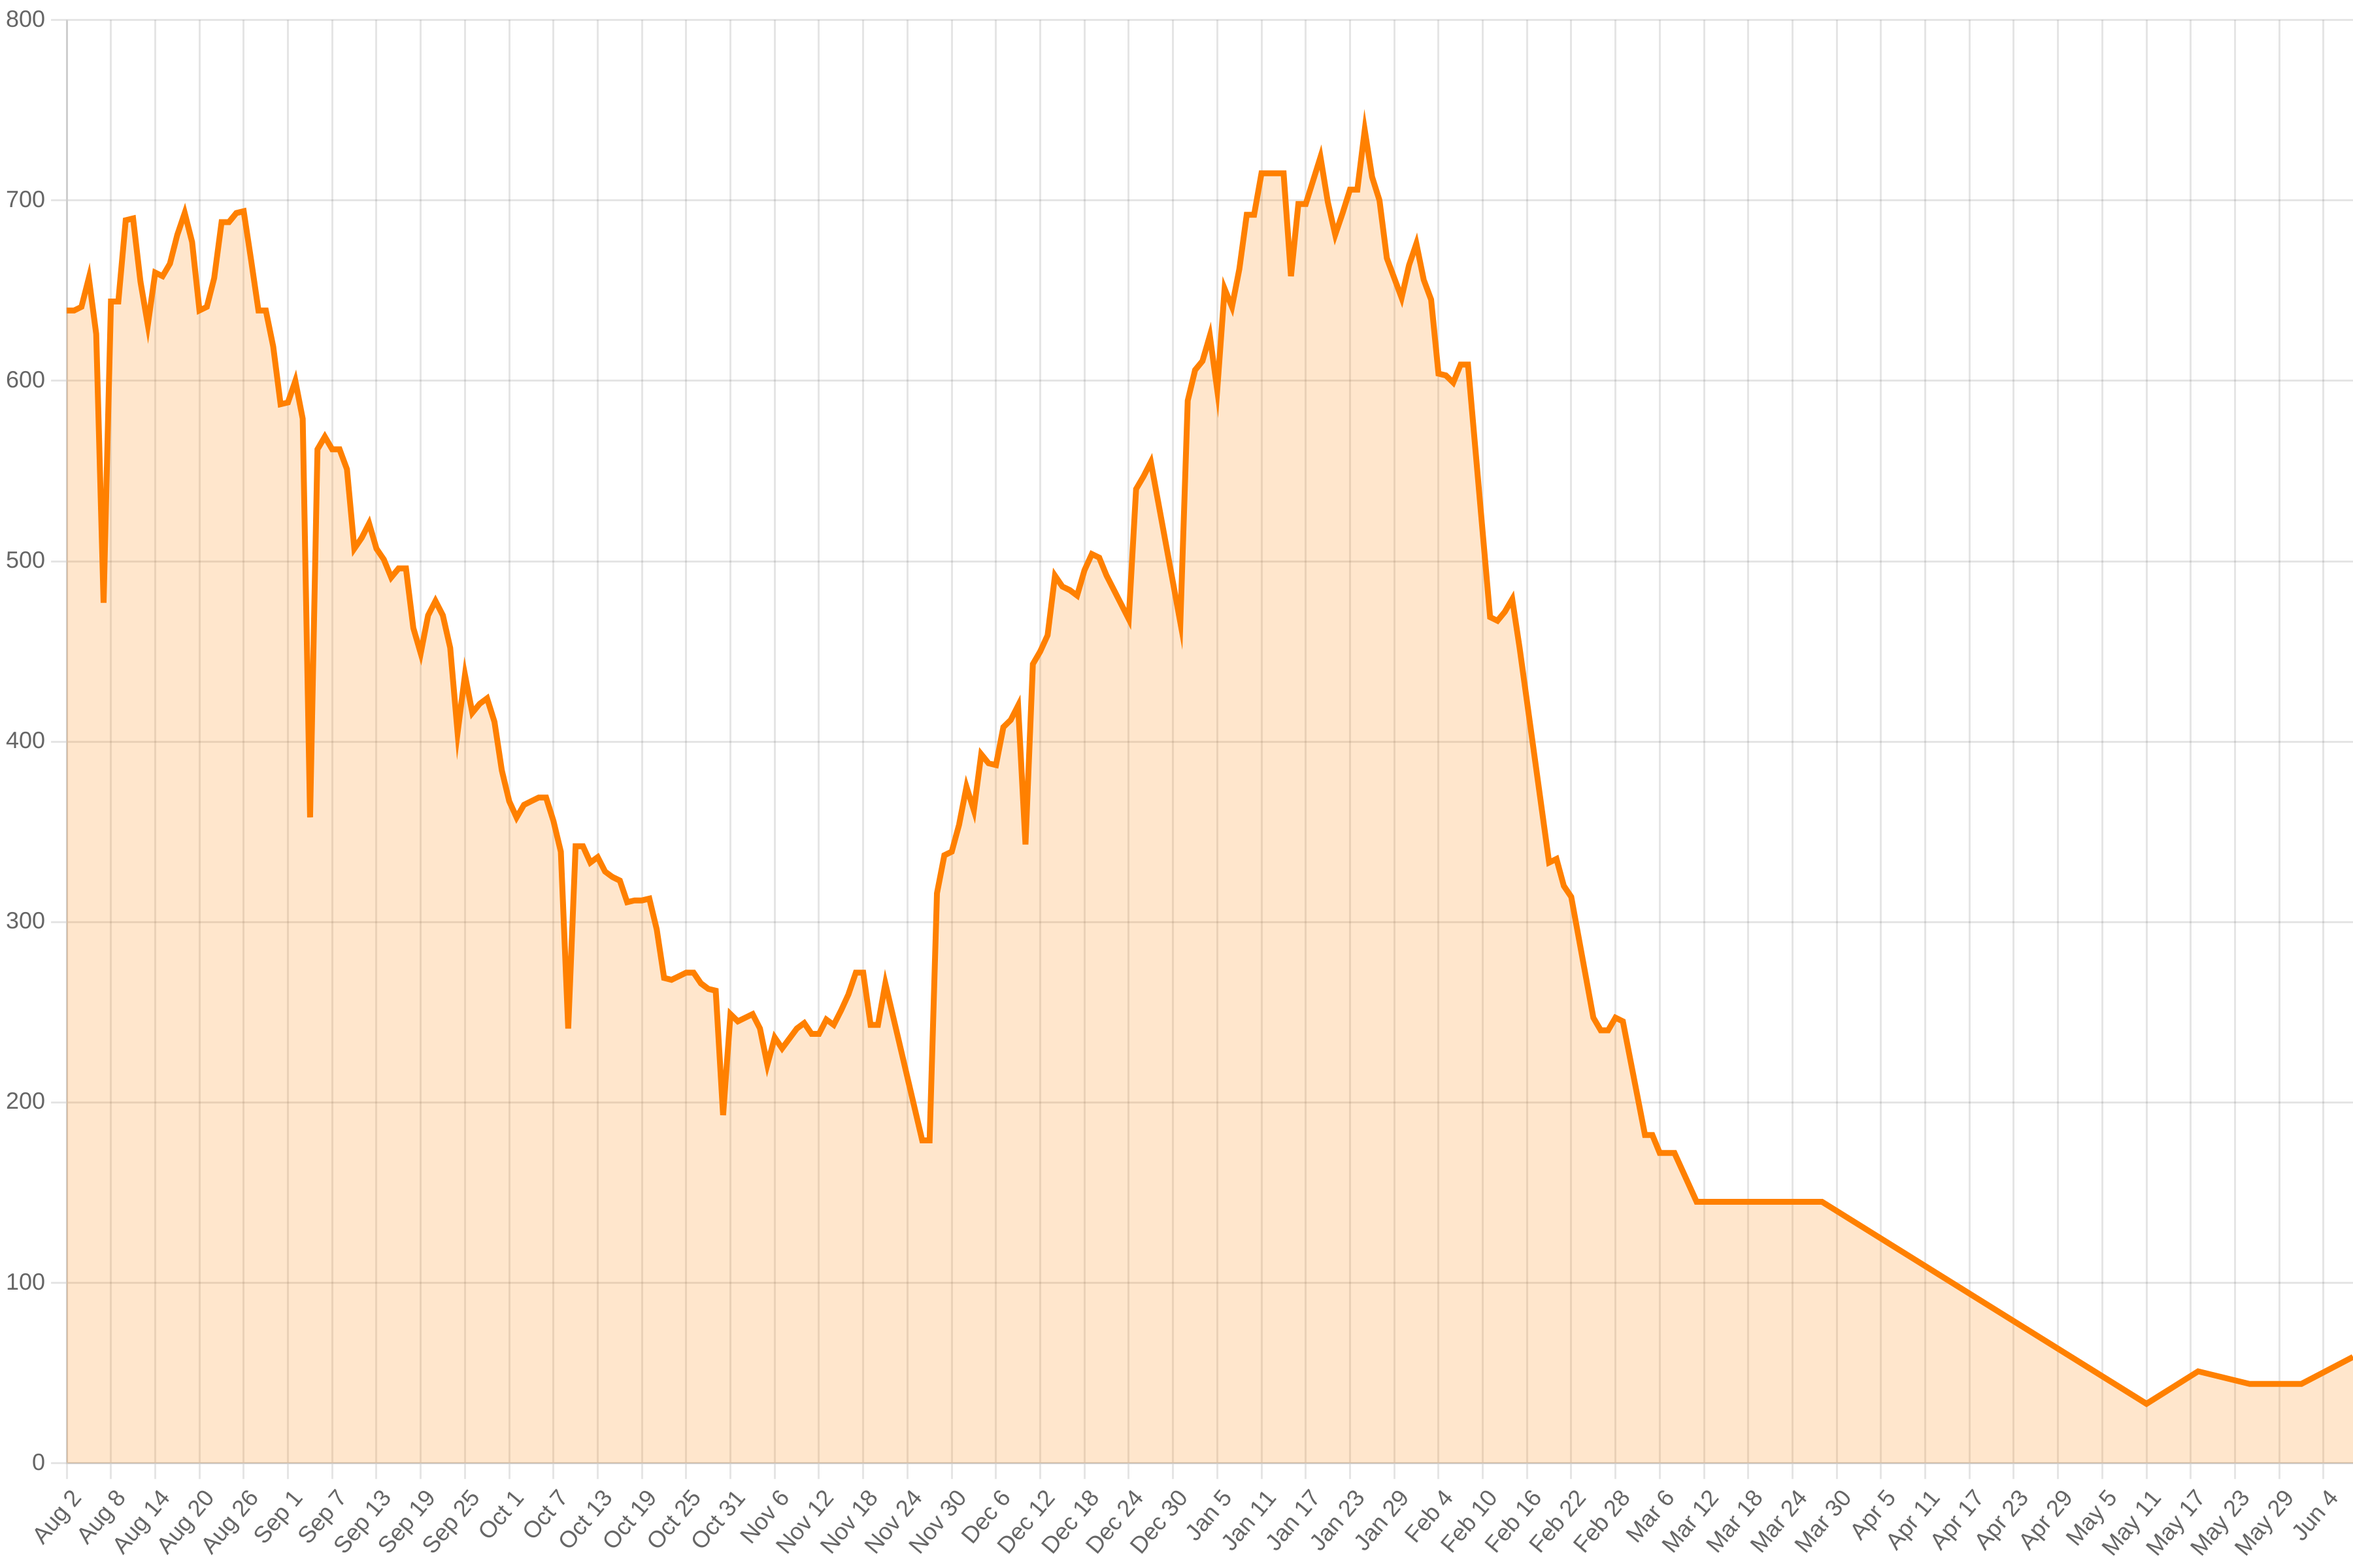
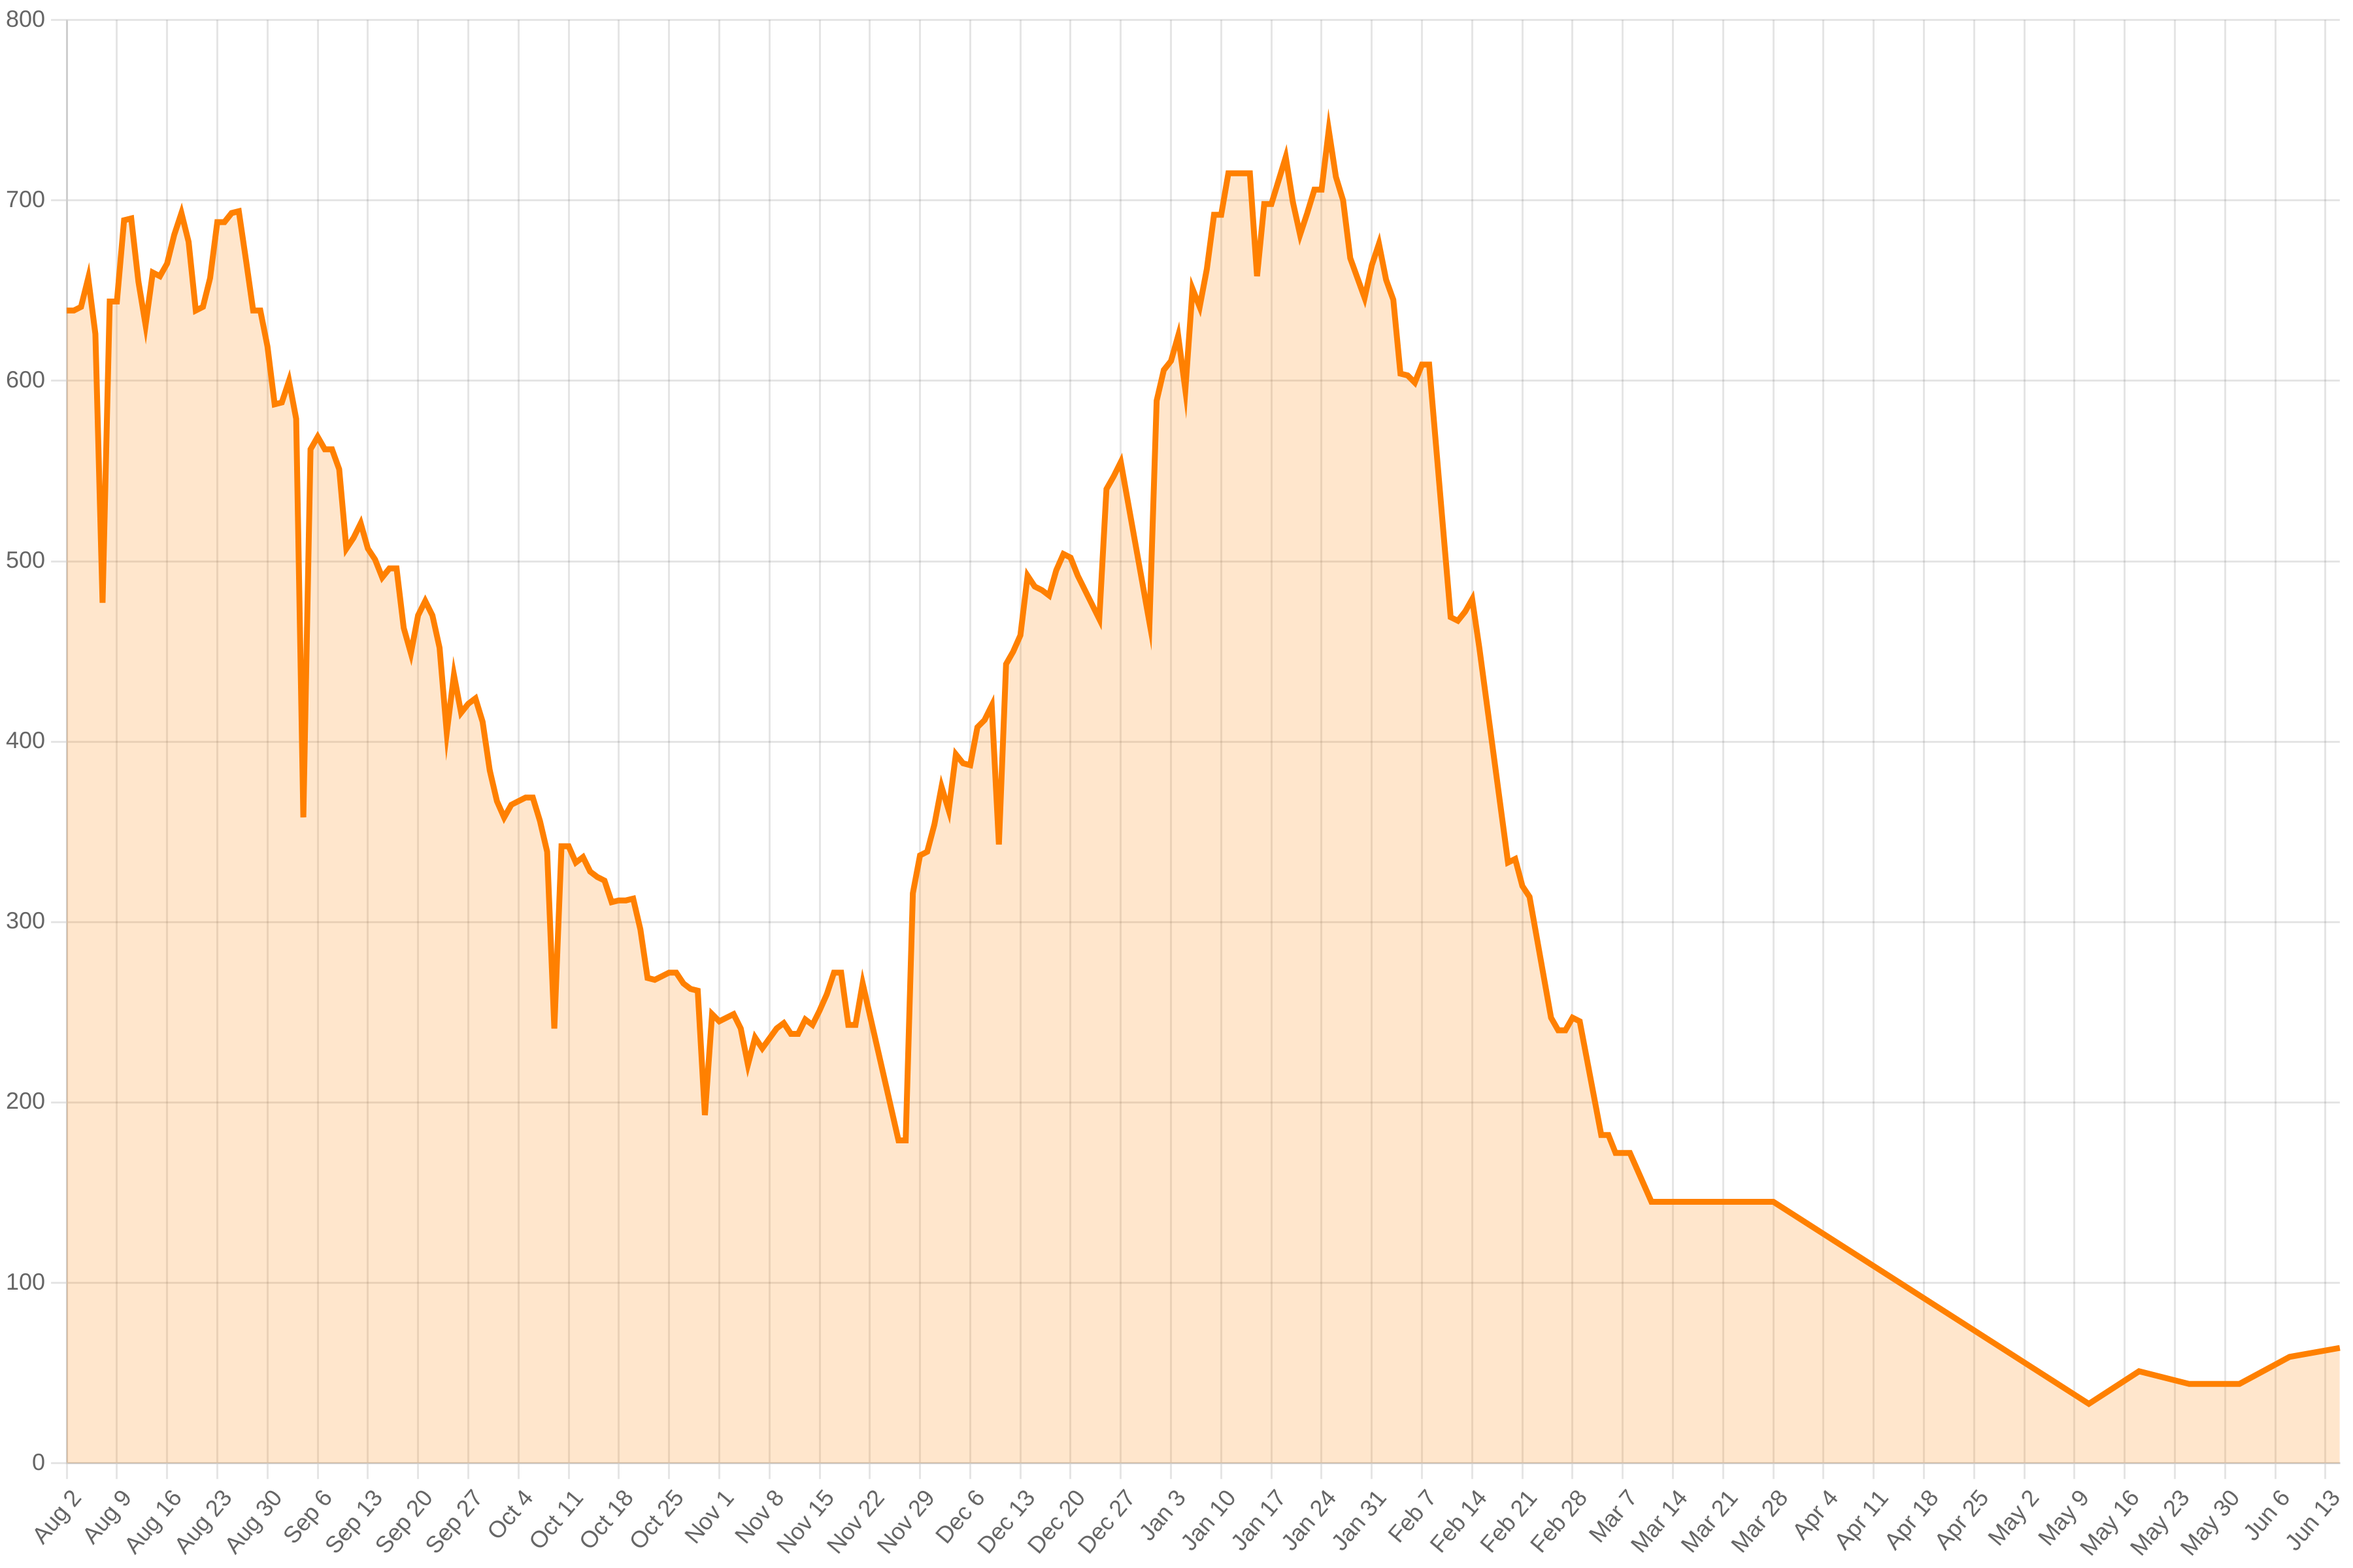
regular update

Changed region(s): [[0.1244, 0.0312, 1.0, 0.9375], [0.0311, 0.9375, 0.9956, 1.0], [0.0311, 0.0312, 0.1244, 0.25]]

diff --git a/docs/index.html b/docs/index.html
@@ -43,10 +43,10 @@
     <main>
       <h1>Missouri COVID data</h1>
       <p>
-        The data on this page was updated <strong>Friday, June 10, 2022</strong>. For
+        The data on this page was updated <strong>Friday, June 17, 2022</strong>. For
         the values that are averages over 7 days, the start date is
-        <strong>Thursday, June 2, 2022</strong> and the end date is
-        <strong>Wednesday, June 8, 2022</strong>. The original data comes from the
+        <strong>Thursday, June 9, 2022</strong> and the end date is
+        <strong>Wednesday, June 15, 2022</strong>. The original data comes from the
         <a
           href="https://results.mo.gov/t/COVID19/views/WeeklyCOVIDMockup_16487370423730/WeeklyReport-Revised-v2?:embed=y&:showVizHome=no&:host_url=https%3A%2F%2Fresults.mo.gov%2F&:embed_code_version=3&:tabs=no&:toolbar=no&:showAppBanner=false&:display_spinner=no&:loadOrderID=0"
           >Missouri Department of Health and Senior Services</a
@@ -79,19 +79,19 @@
 
       <h2>New cases</h2>
       <p>
-        There have been <strong>9,731</strong> new cases in the
-        past 7 days, about <strong>1,390 per day</strong>.
+        There have been <strong>9,945</strong> new cases in the
+        past 7 days, about <strong>1,421 per day</strong>.
       </p>
       <img src="charts/totalPositive.png" />
 
       <h2>Outcomes</h2>
       <p>
-        There are currently 680 people hospitalized with
+        There are currently 707 people hospitalized with
         COVID-19.
       </p>
       <img src="charts/hospitalizations.png" />
 
-      <p>59 people are in intensive care.</p>
+      <p>64 people are in intensive care.</p>
       <img src="charts/icu.png" />
 
       <h2>Unavailable</h2>
